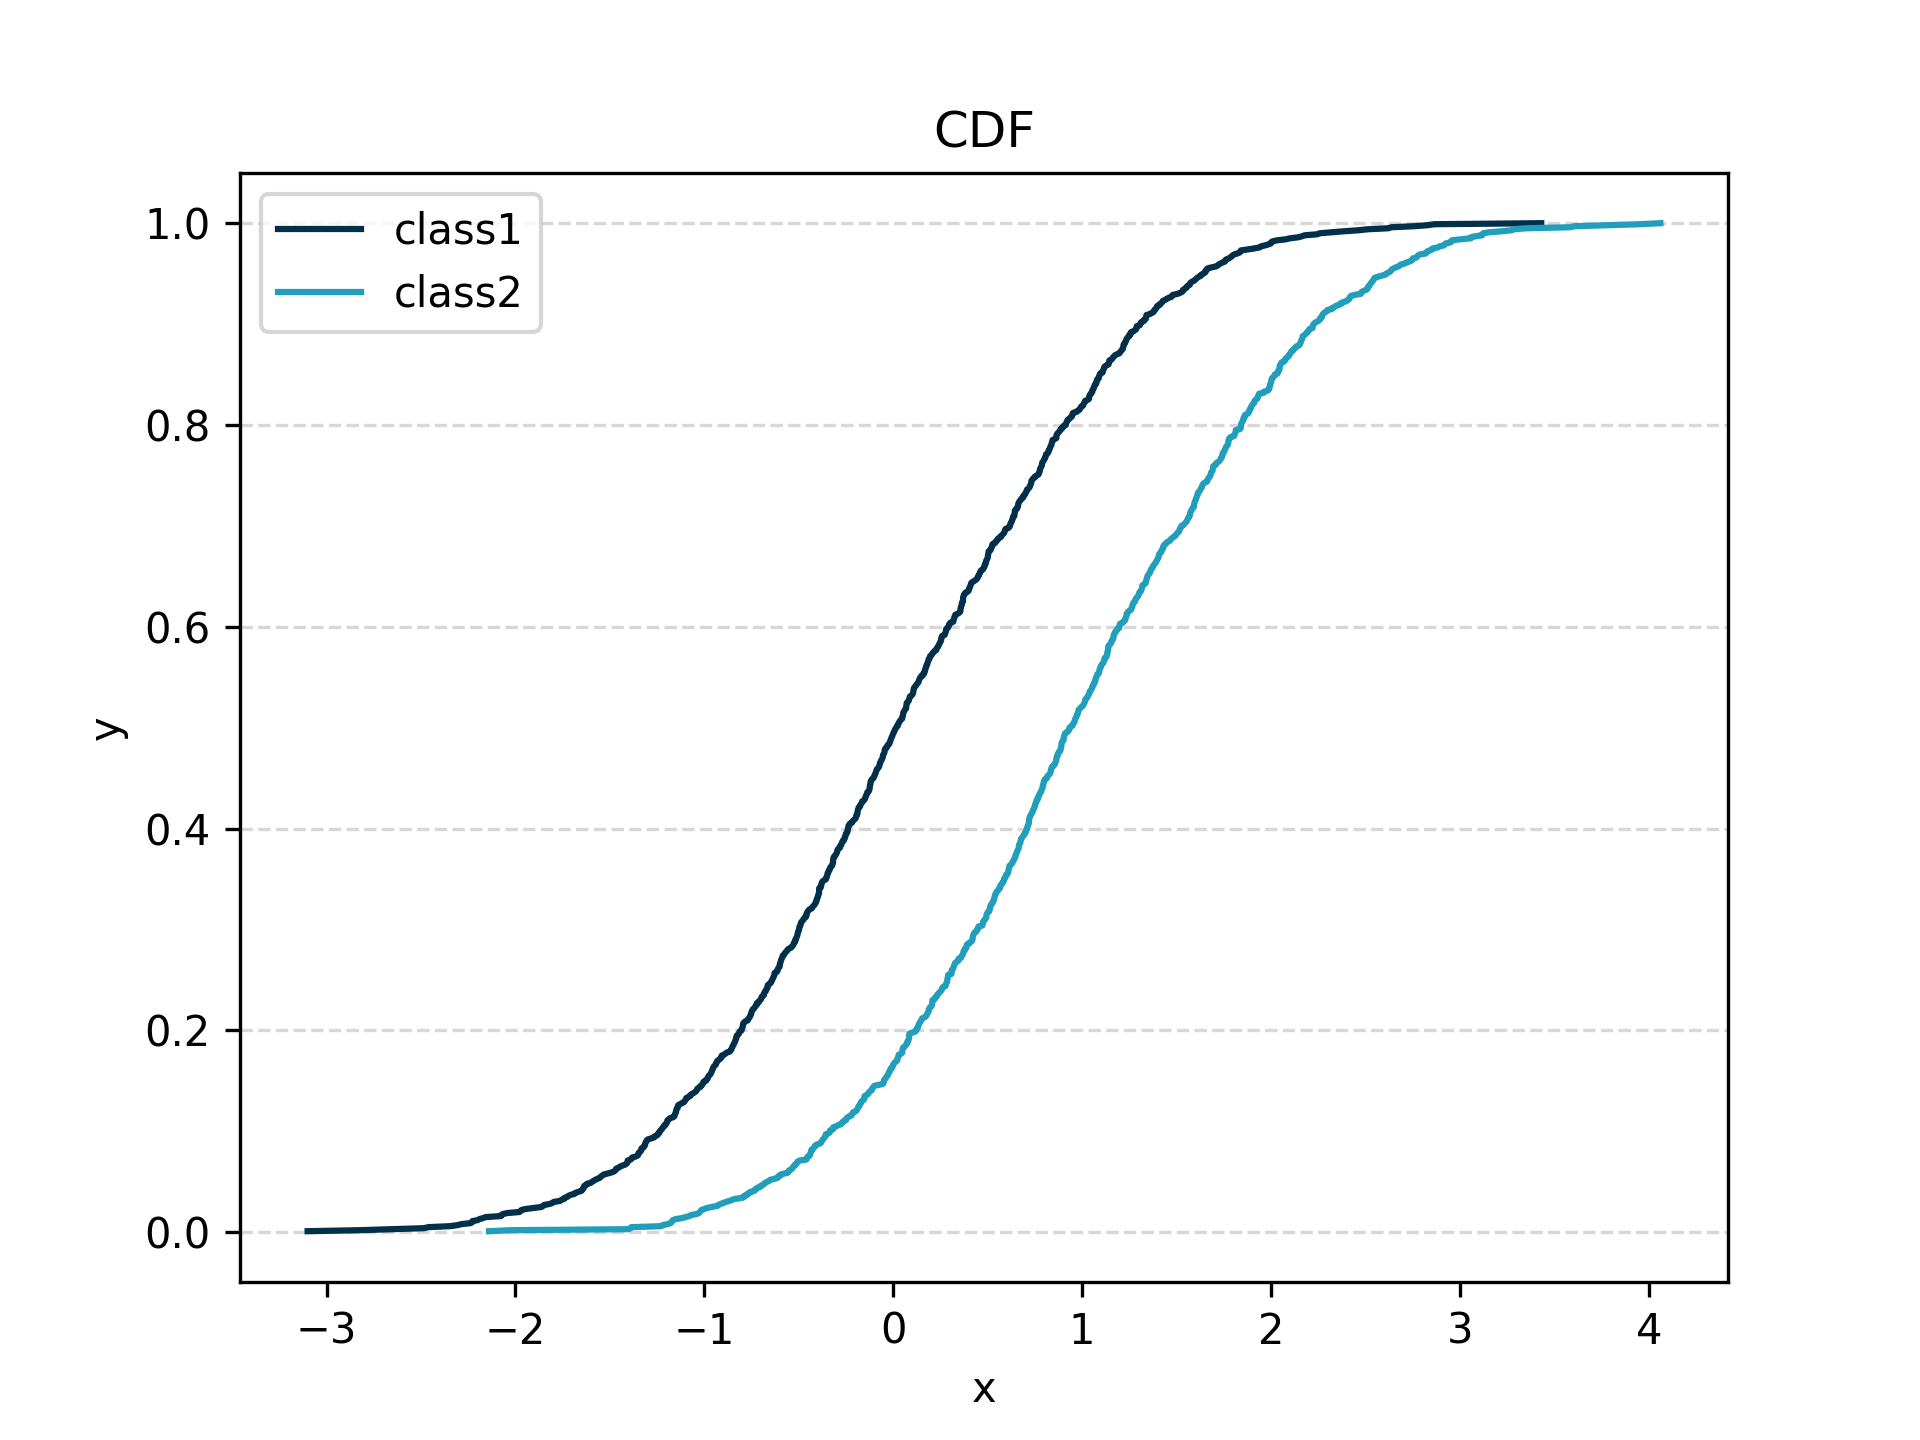
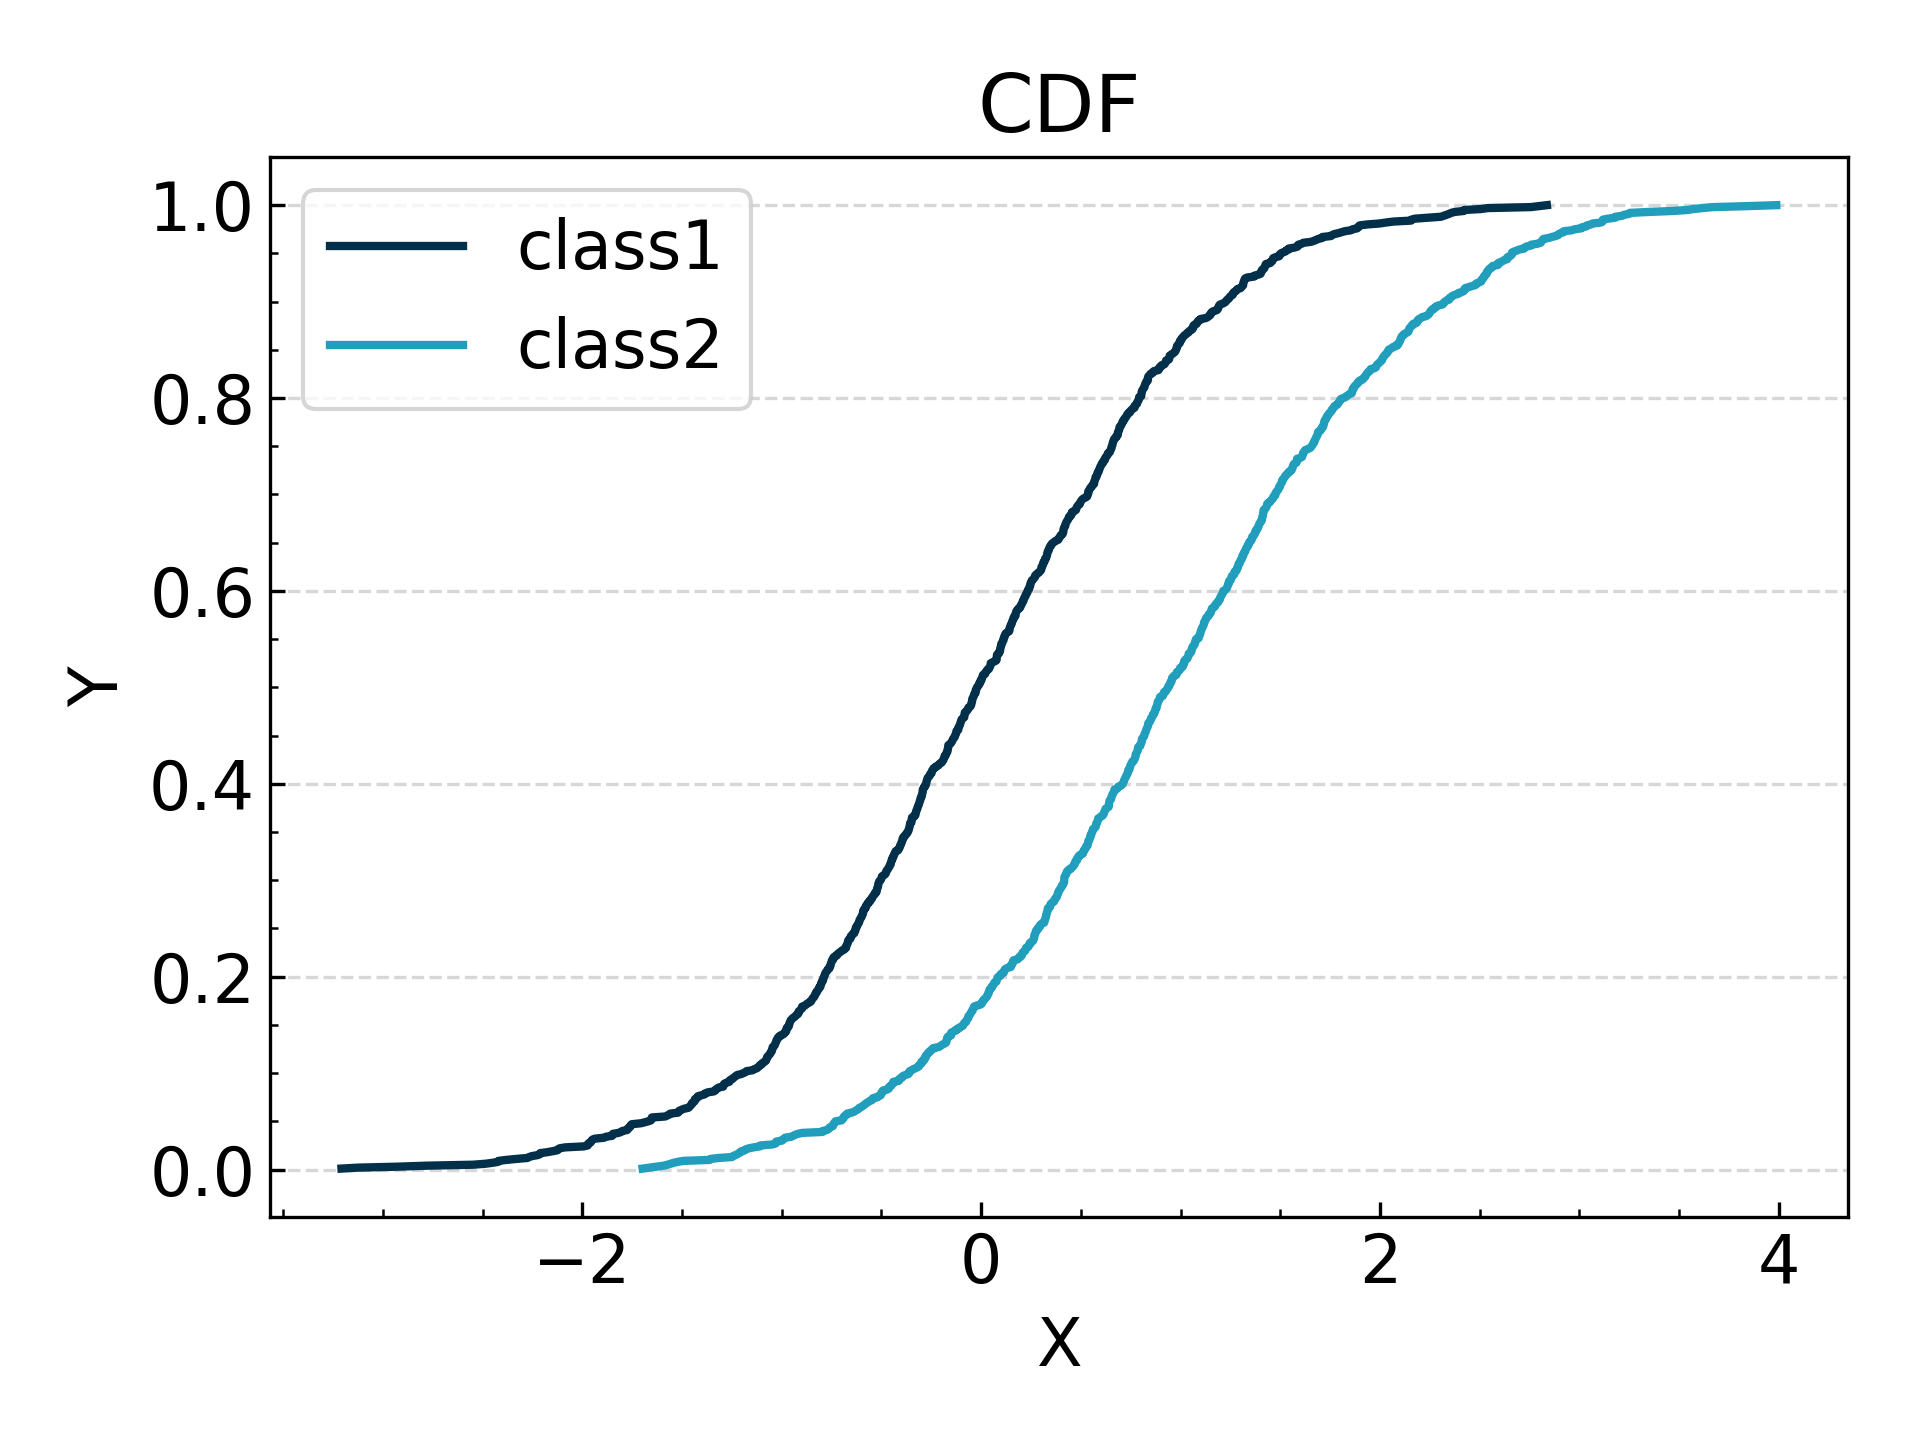
feat: add minor ticks

diff --git a/src/cdf.py b/src/cdf.py
@@ -10,6 +10,9 @@ from util.plot_struct import DataStruct
 COLORS = ([(2/255,48/255,74/255), (33/255, 158/255, 188/255), (254/255, 183/255, 5/255), (250/255, 134/255 ,0)] + plt.rcParams["axes.prop_cycle"].by_key()["color"])
 
 def plot_cdf(data: DataStruct):
+    ## set front size
+    plt.rcParams.update({'font.size': 16})
+    
     ## determine dimensions
     x_data = data.xdata
 
@@ -35,14 +38,20 @@ def plot_cdf(data: DataStruct):
         x = np.sort(x_data[i])
         y = np.arange(1, len(x) + 1) / len(x)
         if is_line_style:
-            plt.plot(x, y, line_style[data.line_style[i]] , label=data.classes[i], color=next(color_iter))
+            plt.plot(x, y, line_style[data.line_style[i]] , label=data.classes[i], color=next(color_iter), linewidth = 2)
         else:
-            plt.plot(x, y , label=data.classes[i], color=next(color_iter))
+            plt.plot(x, y , label=data.classes[i], color=next(color_iter), linewidth = 2)
     
     plt.xlabel(data.xlabel)
     plt.ylabel(data.ylabel)
     plt.title(data.title)
+
+    plt.tick_params(axis='both', which='major', direction='in')
+    plt.tick_params(axis='both', which='minor', direction='in')
+    plt.minorticks_on()
+
     plt.grid(True, axis='y', linestyle='--', alpha=0.5)
+    plt.tight_layout()
     plt.legend()
 
     if is_label:
@@ -58,8 +67,8 @@ if __name__ == '__main__':
     data = DataStruct()
     data.xdata = [np.random.normal(0, 1, 1000), np.random.normal(1, 1, 1000)]
     data.classes = ['class1', 'class2']
-    data.xlabel = 'x'
-    data.ylabel = 'y'
+    data.xlabel = 'X'
+    data.ylabel = 'Y'
     data.title = 'CDF'
     data.filePath = 'example/cdf.png'
     plot_cdf(data)
